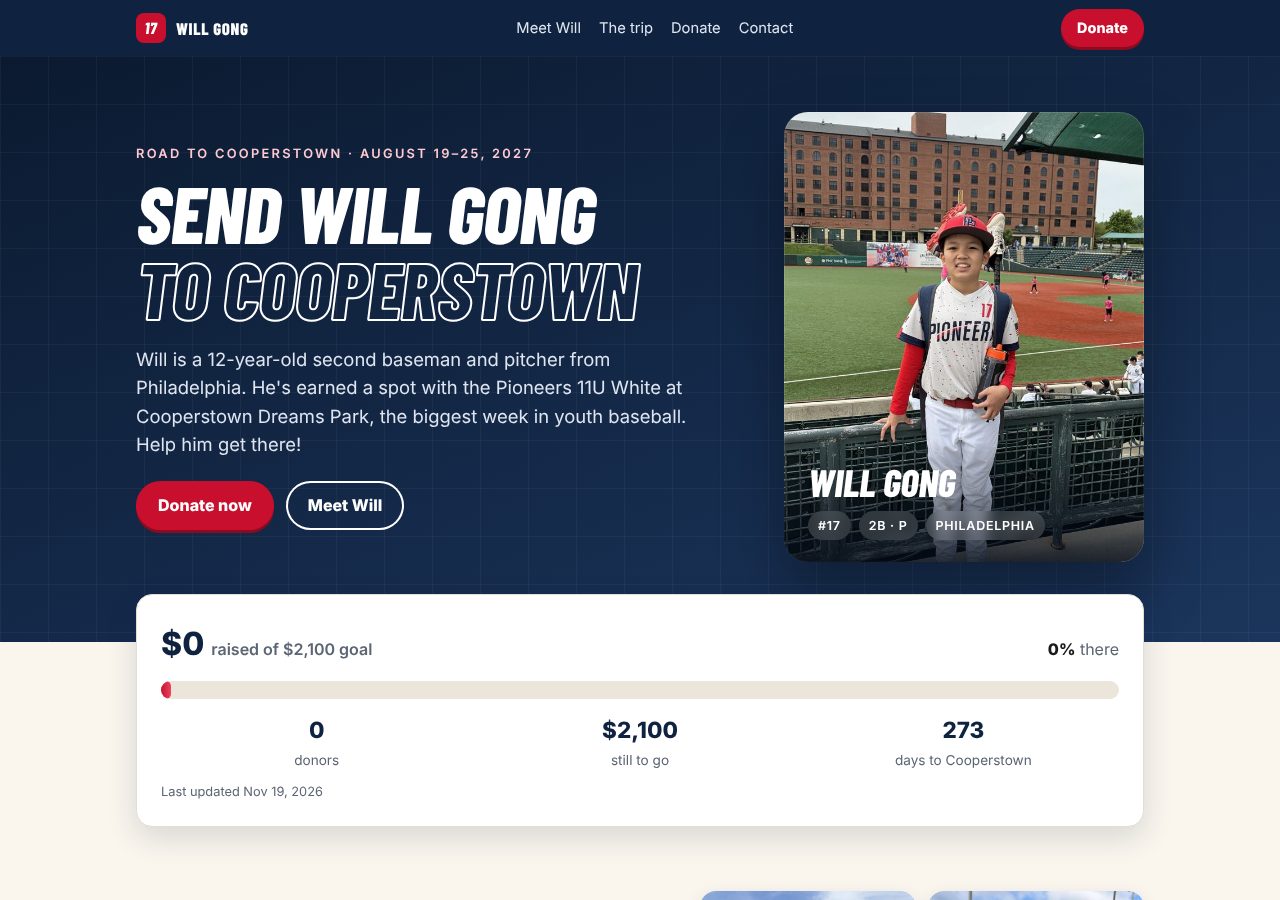
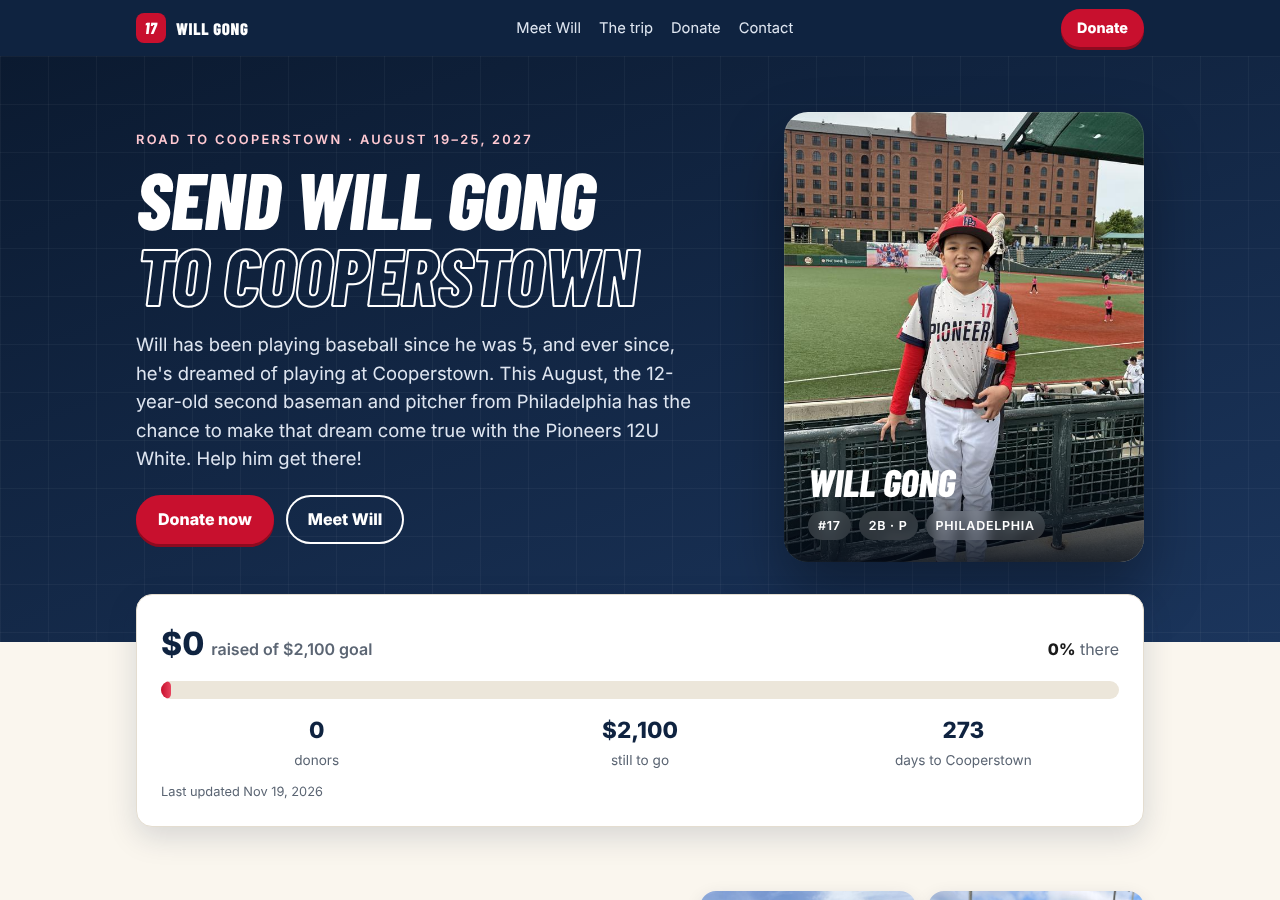
Open Venmo app directly from Donate and amount buttons on phones
Claude-Session: https://claude.ai/code/session_013nrY39uEJQzRQD44V9kHRV

Changed region(s): [[0.0938, 0.1244, 0.5312, 0.6222]]

diff --git a/index.html b/index.html
@@ -198,7 +198,7 @@
       <a href="#donate">Donate</a>
       <a href="#contact">Contact</a>
     </div>
-    <a class="btn small" href="#donate">Donate</a>
+    <a class="venmo btn small" href="https://account.venmo.com/pay?txn=pay&amp;recipients=Ning_Gong_1&amp;note=Will%20Cooperstown" target="_blank" rel="noopener">Donate</a>
   </div>
 </nav>
 
@@ -209,7 +209,7 @@
       <h1>Send Will Gong<br><span>to Cooperstown</span></h1>
       <p class="lead">Will has been playing baseball since he was 5, and ever since, he's dreamed of playing at Cooperstown. This August, the 12-year-old second baseman and pitcher from Philadelphia has the chance to make that dream come true with the Pioneers 12U White. Help him get there!</p>
       <div class="cta">
-        <a class="btn" href="#donate">Donate now</a>
+        <a class="venmo btn" href="https://account.venmo.com/pay?txn=pay&amp;recipients=Ning_Gong_1&amp;note=Will%20Cooperstown" target="_blank" rel="noopener">Donate now</a>
         <a class="btn ghost" href="#will">Meet Will</a>
       </div>
     </div>
@@ -295,25 +295,25 @@
         <h3>Single</h3>
         <div class="price">$17</div>
         <p>One for every number on Will's jersey.</p>
-        <a class="btn" href="https://venmo.com/Ning_Gong_1?txn=pay&amp;note=Will%20Cooperstown&amp;amount=17" target="_blank" rel="noopener">Venmo $17</a>
+        <a class="btn venmo" data-amount="17" href="https://account.venmo.com/pay?txn=pay&amp;recipients=Ning_Gong_1&amp;note=Will%20Cooperstown&amp;amount=17" target="_blank" rel="noopener">Venmo $17</a>
       </div>
       <div class="card tier">
         <h3>Double play</h3>
         <div class="price">$50</div>
         <p>Covers a set of trading pins to swap with other teams.</p>
-        <a class="btn" href="https://venmo.com/Ning_Gong_1?txn=pay&amp;note=Will%20Cooperstown&amp;amount=50" target="_blank" rel="noopener">Venmo $50</a>
+        <a class="btn venmo" data-amount="50" href="https://account.venmo.com/pay?txn=pay&amp;recipients=Ning_Gong_1&amp;note=Will%20Cooperstown&amp;amount=50" target="_blank" rel="noopener">Venmo $50</a>
       </div>
       <div class="card tier">
         <h3>Home run</h3>
         <div class="price">$100</div>
         <p>Helps cover Will's share of team costs.</p>
-        <a class="btn" href="https://venmo.com/Ning_Gong_1?txn=pay&amp;note=Will%20Cooperstown&amp;amount=100" target="_blank" rel="noopener">Venmo $100</a>
+        <a class="btn venmo" data-amount="100" href="https://account.venmo.com/pay?txn=pay&amp;recipients=Ning_Gong_1&amp;note=Will%20Cooperstown&amp;amount=100" target="_blank" rel="noopener">Venmo $100</a>
       </div>
       <div class="card tier">
         <h3>Grand slam</h3>
         <div class="price">$250+</div>
         <p>A big piece of the tournament and barracks fee. Thank you!</p>
-        <a class="btn" href="https://venmo.com/Ning_Gong_1?txn=pay&amp;note=Will%20Cooperstown&amp;amount=250" target="_blank" rel="noopener">Venmo $250</a>
+        <a class="btn venmo" data-amount="250" href="https://account.venmo.com/pay?txn=pay&amp;recipients=Ning_Gong_1&amp;note=Will%20Cooperstown&amp;amount=250" target="_blank" rel="noopener">Venmo $250</a>
       </div>
     </div>
 
@@ -325,7 +325,7 @@
         <h3>Venmo</h3>
         <div class="handle">@Ning_Gong_1</div>
         <span style="color:var(--muted);font-size:.9rem">Will's parent's Venmo. Memo: "Will Cooperstown"</span>
-        <a class="btn" href="https://venmo.com/Ning_Gong_1?txn=pay&amp;note=Will%20Cooperstown" target="_blank" rel="noopener">Pay any amount</a>
+        <a class="btn venmo" href="https://account.venmo.com/pay?txn=pay&amp;recipients=Ning_Gong_1&amp;note=Will%20Cooperstown" target="_blank" rel="noopener">Pay any amount</a>
       </div>
       <div class="card">
         <div class="icon"><svg class="ico" viewBox="0 0 24 24"><rect x="2" y="5" width="20" height="14" rx="2"/><path d="M2 10h20M6 15h4"/></svg></div>
@@ -354,7 +354,7 @@
   <div class="wrap">
     <h2>Get in touch</h2>
     <p>Questions? Send us a message on Instagram at <a href="https://www.instagram.com/gong4494/" target="_blank" rel="noopener">@gong4494</a>.</p>
-    <a class="btn" href="#donate">Donate now</a>
+    <a class="venmo btn" href="https://account.venmo.com/pay?txn=pay&amp;recipients=Ning_Gong_1&amp;note=Will%20Cooperstown" target="_blank" rel="noopener">Donate now</a>
     <p class="fine">Will Gong · #17 · Pioneers 12U White · Not affiliated with or endorsed by Cooperstown Dreams Park or the National Baseball Hall of Fame.</p>
   </div>
 </footer>
@@ -426,6 +426,27 @@
   }
   const days = Math.ceil((new Date(f.tripDate + "T00:00:00") - new Date()) / 86400000);
   document.getElementById("days").textContent = days > 0 ? days : 0;
+  // Venmo buttons: on phones, open the Venmo app directly (amount + note prefilled);
+  // if the app doesn't open (not installed / in-app browser), fall back to Venmo's website.
+  (function () {
+    const isMobile = /iPhone|iPad|iPod|Android/i.test(navigator.userAgent);
+    document.querySelectorAll("a.venmo").forEach(a => a.addEventListener("click", e => {
+      if (!isMobile) return; // computers: open the Venmo website in a new tab
+      e.preventDefault();
+      const amt = a.dataset.amount;
+      const app = "venmo://paycharge?txn=pay&recipients=Ning_Gong_1&note=" + encodeURIComponent("Will Cooperstown") + (amt ? "&amount=" + amt : "");
+      const web = a.href;
+      let left = false;
+      const onHide = () => { if (document.hidden) left = true; };
+      document.addEventListener("visibilitychange", onHide);
+      window.addEventListener("pagehide", onHide);
+      window.location.href = app;
+      setTimeout(() => {
+        document.removeEventListener("visibilitychange", onHide);
+        if (!left && !document.hidden) window.location.href = web;
+      }, 1500);
+    }));
+  })();
 </script>
 </body>
 </html>
